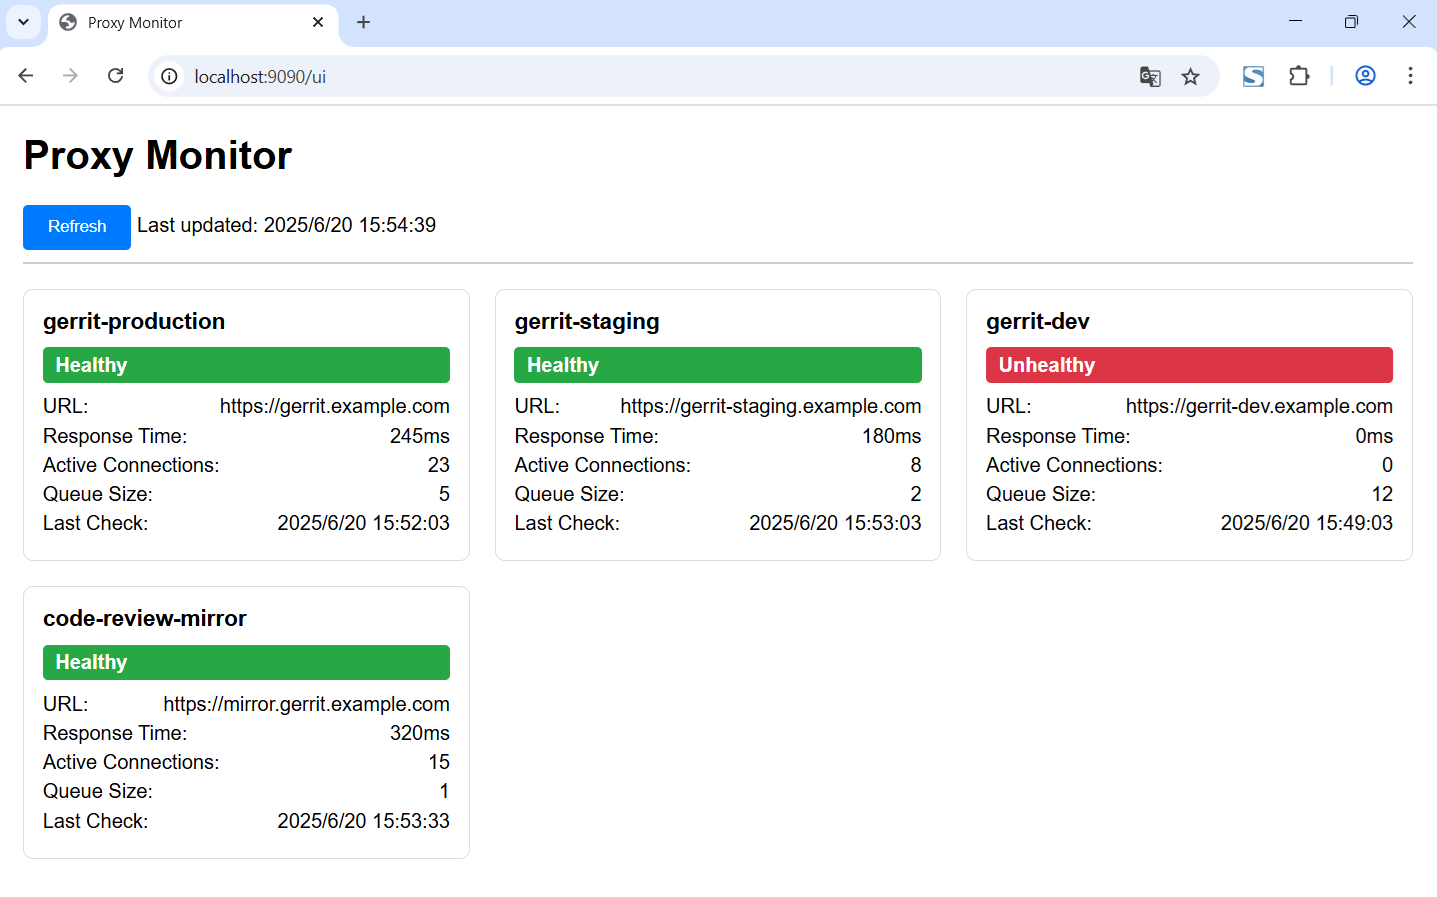
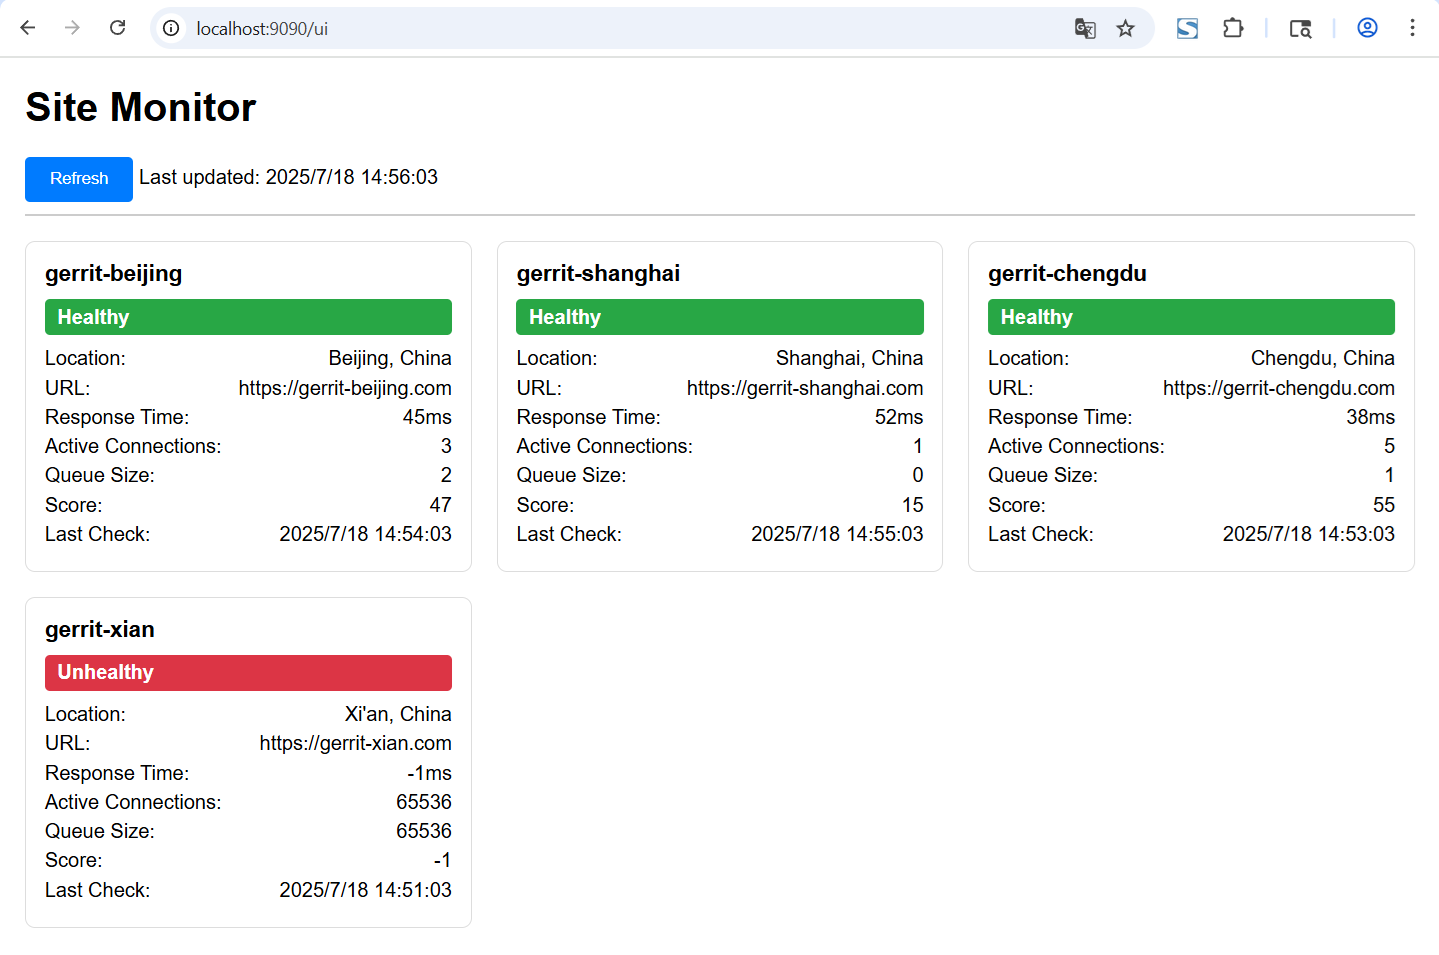
feat(server): add flage of '--test' for test mode

diff --git a/monitor/testdata.go b/monitor/testdata.go
@@ -1,0 +1,64 @@
+package monitor
+
+import (
+	"time"
+)
+
+func GetTestSitesData() []*SiteStatus {
+	now := time.Now()
+
+	return []*SiteStatus{
+		{
+			Name:         "gerrit-beijing",
+			Location:     "Beijing, China",
+			Url:          "https://gerrit-beijing.com",
+			Host:         "10.67.16.29",
+			Healthy:      true,
+			ResponseTime: 45,
+			Connections:  3,
+			QueueSize:    2,
+			Score:        47,
+			LastCheck:    now.Add(-time.Minute * 2),
+			Error:        "",
+		},
+		{
+			Name:         "gerrit-shanghai",
+			Location:     "Shanghai, China",
+			Url:          "https://gerrit-shanghai.com",
+			Host:         "10.63.237.206",
+			Healthy:      true,
+			ResponseTime: 52,
+			Connections:  1,
+			QueueSize:    0,
+			Score:        15,
+			LastCheck:    now.Add(-time.Minute * 1),
+			Error:        "",
+		},
+		{
+			Name:         "gerrit-chengdu",
+			Location:     "Chengdu, China",
+			Url:          "https://gerrit-chengdu.com",
+			Host:         "10.75.200.210",
+			Healthy:      true,
+			ResponseTime: 38,
+			Connections:  5,
+			QueueSize:    1,
+			Score:        55,
+			LastCheck:    now.Add(-time.Minute * 3),
+			Error:        "",
+		},
+		{
+			Name:         "gerrit-xian",
+			Location:     "Xi'an, China",
+			Url:          "https://gerrit-xian.com",
+			Host:         "10.95.243.159",
+			Healthy:      false,
+			ResponseTime: -1,
+			Connections:  ConnectionMax,
+			QueueSize:    QueueMax,
+			Score:        -1,
+			LastCheck:    now.Add(-time.Minute * 5),
+			Error:        "Connection timeout - site unreachable",
+		},
+	}
+}

diff --git a/monitor/monitor.go b/monitor/monitor.go
@@ -37,17 +37,32 @@ type SiteStatus struct {
 }
 
 type Monitor struct {
-	config *config.Config
-	sites  map[string]*SiteStatus
-	mutex  sync.RWMutex
-	client *http.Client
+	config   *config.Config
+	sites    map[string]*SiteStatus
+	mutex    sync.RWMutex
+	client   *http.Client
+	testMode bool
 }
 
 func NewMonitor(cfg *config.Config) *Monitor {
 	m := &Monitor{
-		config: cfg,
-		sites:  make(map[string]*SiteStatus),
-		client: &http.Client{Timeout: 10 * time.Second},
+		config:   cfg,
+		sites:    make(map[string]*SiteStatus),
+		client:   &http.Client{Timeout: 10 * time.Second},
+		testMode: false,
+	}
+
+	m.initializeMonitor()
+
+	return m
+}
+
+func NewTestMonitor(cfg *config.Config) *Monitor {
+	m := &Monitor{
+		config:   cfg,
+		sites:    make(map[string]*SiteStatus),
+		client:   &http.Client{Timeout: 10 * time.Second},
+		testMode: true,
 	}
 
 	m.initializeMonitor()
@@ -69,6 +84,11 @@ func (m *Monitor) initializeMonitor() {
 func (m *Monitor) GetAllSitesStatus() []*SiteStatus {
 	m.mutex.RLock()
 	defer m.mutex.RUnlock()
+
+	// Return test data if in test mode
+	if m.testMode {
+		return GetTestSitesData()
+	}
 
 	sites := make([]*SiteStatus, 0, len(m.sites))
 	for _, site := range m.sites {

diff --git a/cmd/serve.go b/cmd/serve.go
@@ -17,6 +17,7 @@ import (
 
 var (
 	serveAddress string
+	testMode     bool
 )
 
 var serveCmd = &cobra.Command{
@@ -37,10 +38,19 @@ func init() {
 	rootCmd.AddCommand(serveCmd)
 
 	serveCmd.PersistentFlags().StringVarP(&serveAddress, "address", "a", ":9090", "serve address")
+	serveCmd.PersistentFlags().BoolVarP(&testMode, "test", "t", false, "test mode")
 }
 
 func runServe(ctx context.Context, cfg *config.Config) error {
-	srv := server.NewServer(cfg)
+	var srv *server.Server
+
+	if testMode {
+		srv = server.NewTestServer(cfg)
+		fmt.Println("Running in test mode with mock data")
+	} else {
+		srv = server.NewServer(cfg)
+	}
+
 	httpServer := &http.Server{
 		Addr:    serveAddress,
 		Handler: srv.Handler(),

diff --git a/server/server.go b/server/server.go
@@ -28,6 +28,13 @@ func NewServer(cfg *config.Config) *Server {
 	}
 }
 
+func NewTestServer(cfg *config.Config) *Server {
+	return &Server{
+		config:  cfg,
+		monitor: monitor.NewTestMonitor(cfg),
+	}
+}
+
 func (s *Server) Handler() http.Handler {
 	r := mux.NewRouter()
 

diff --git a/README.md b/README.md
@@ -17,7 +17,7 @@ git sites proxy
 
 ```bash
 # Deploy server
-proxy serve [--address string]
+proxy serve [--address string] [--test]
 
 # Query site
 proxy query [--output string] [--site string] [--verbose]
